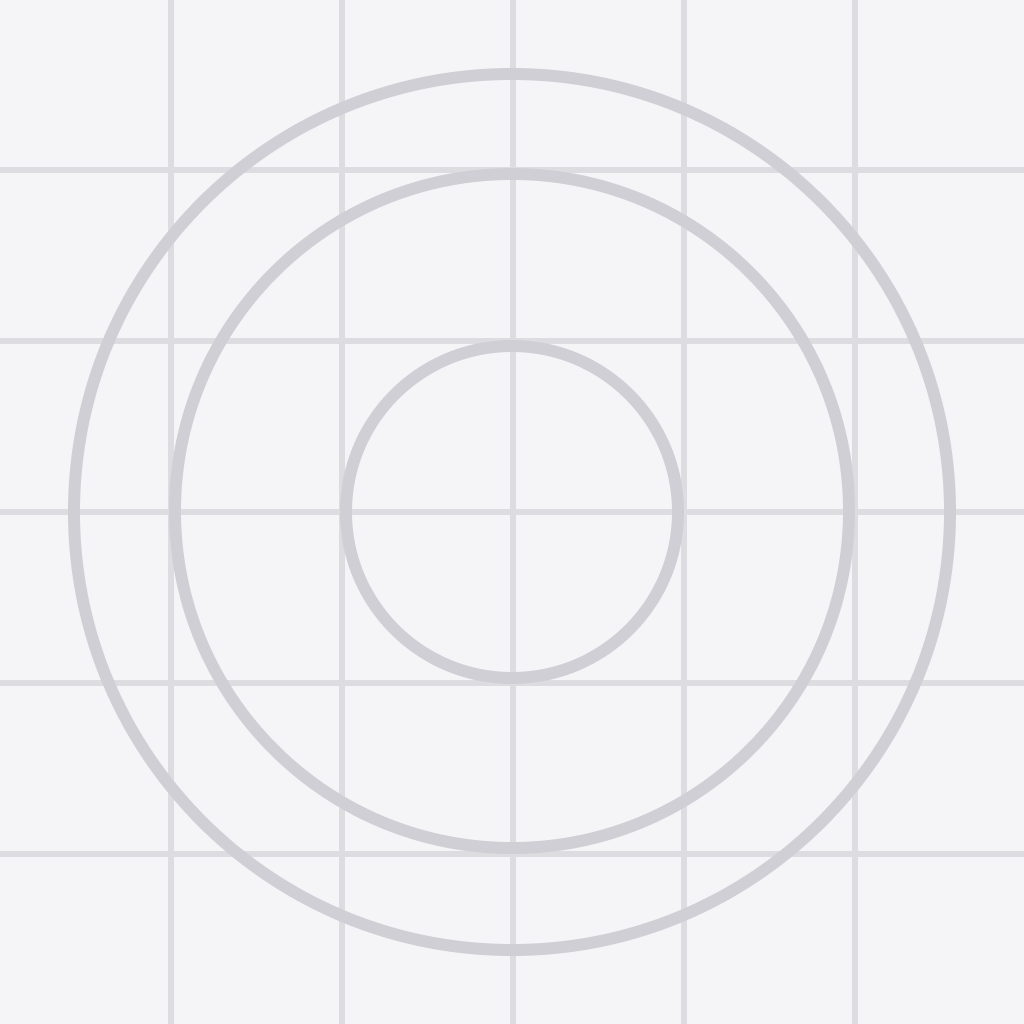
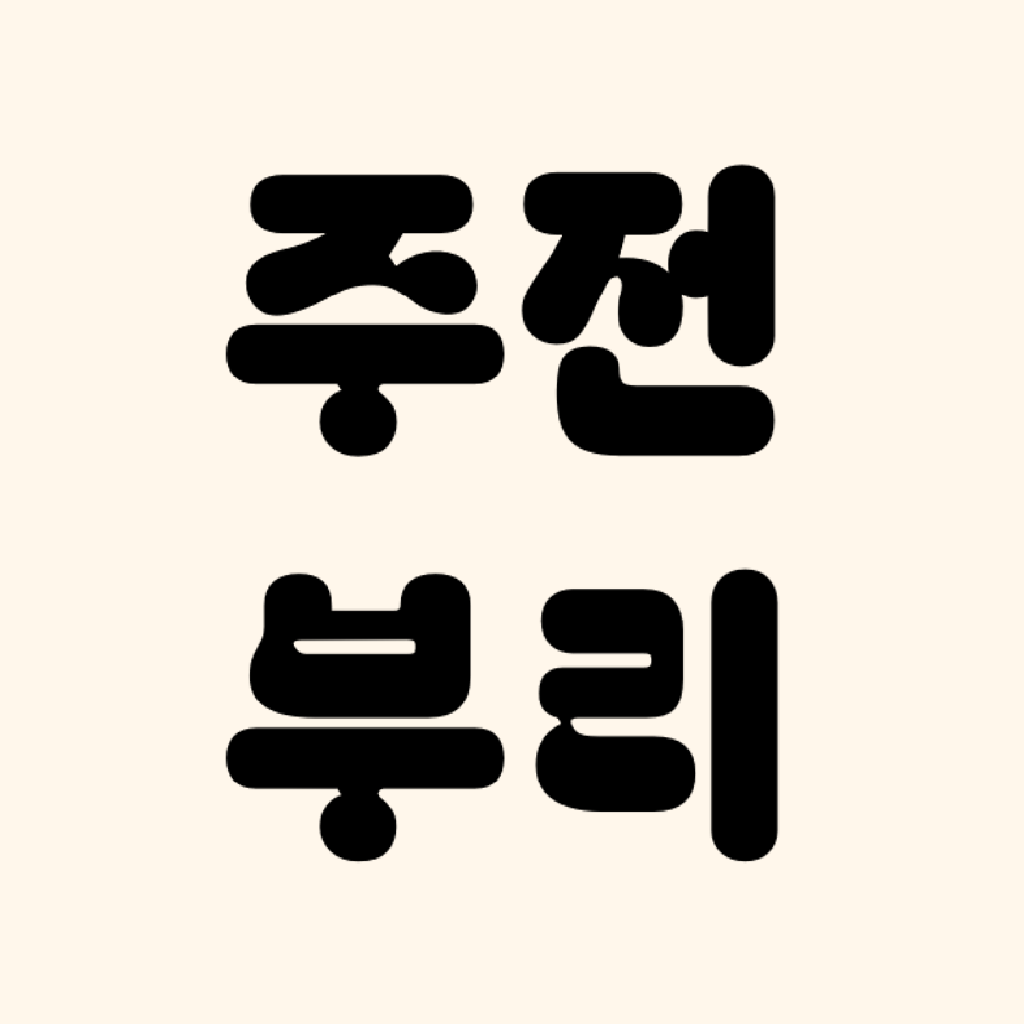
[refactor] 앱 이름, 아이콘 수정 및 날씨 오류 코드 수정

Changed region(s): [[0.0, 0.0, 1.0, 1.0]]

diff --git a/Client/Jujeonburi/app/components/Weathercard.tsx b/Client/Jujeonburi/app/components/Weathercard.tsx
@@ -117,17 +117,19 @@ function pickNearestFcstTime(items: any[], fallbackDate: string) {
   if (!items?.length) return { date: fallbackDate, time: "0000" };
 
   const now = new Date();
-  const cur = Number(
-    `${String(now.getHours()).padStart(2, "0")}${String(now.getMinutes()).padStart(2, "0")}`
-  );
+  const cur = Number(`${String(now.getHours()).padStart(2, "0")}${String(now.getMinutes()).padStart(2, "0")}`);
 
-  const sameDate = items.filter((it: any) => it.fcstDate === fallbackDate);
-  if (!sameDate.length) return { date: fallbackDate, time: "0000" };
+  let pool = items.filter((it: any) => it.fcstDate === fallbackDate);
 
-  let best = sameDate[0].fcstTime;
+  if (!pool.length) {
+    const firstDate = items[0]?.fcstDate;
+    pool = items.filter((it: any) => it.fcstDate === firstDate);
+    return { date: firstDate ?? fallbackDate, time: pool[0]?.fcstTime ?? "0000" };
+  }
+
+  let best = pool[0].fcstTime;
   let bestDiff = Infinity;
-
-  for (const it of sameDate) {
+  for (const it of pool) {
     const t = Number(it.fcstTime);
     const diff = Math.abs(t - cur);
     if (diff < bestDiff) {
@@ -135,6 +137,7 @@ function pickNearestFcstTime(items: any[], fallbackDate: string) {
       best = it.fcstTime;
     }
   }
+
   return { date: fallbackDate, time: best };
 }
 

diff --git a/Client/Jujeonburi/app/(beforeLogin)/index.tsx b/Client/Jujeonburi/app/(beforeLogin)/index.tsx
@@ -5,6 +5,8 @@ import * as SplashScreen from "expo-splash-screen";
 import { useEffect, useState } from "react";
 import { StyleSheet, Text, TouchableOpacity, View } from "react-native";
 
+const API_BASE = process.env.EXPO_PUBLIC_API_URL!;
+
 const fetchFonts = async () => {
     await Font.loadAsync({
         'BagelFatOne': require('../../assets/fonts/BagelFatOne-Regular.ttf')